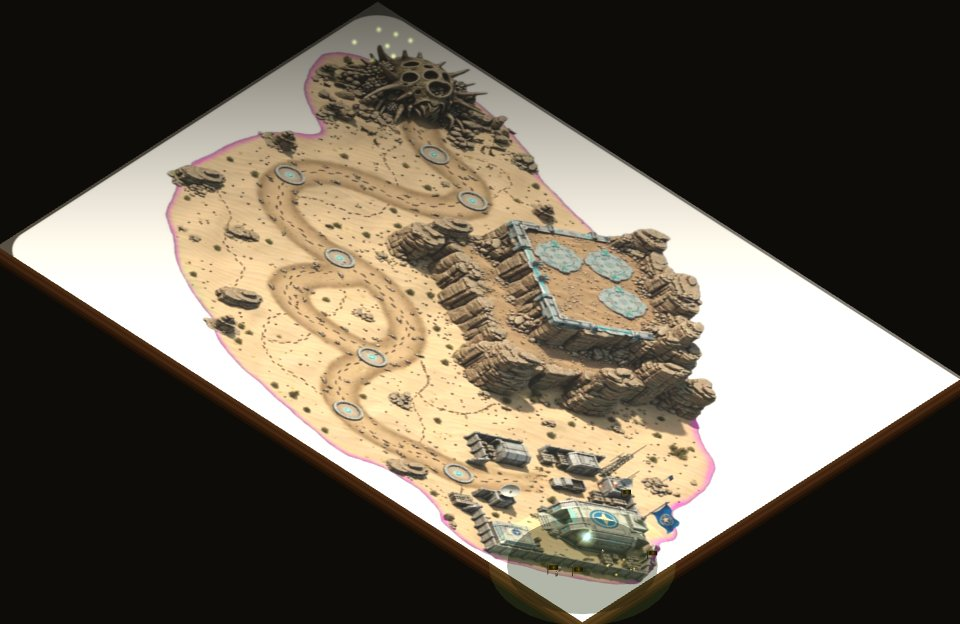
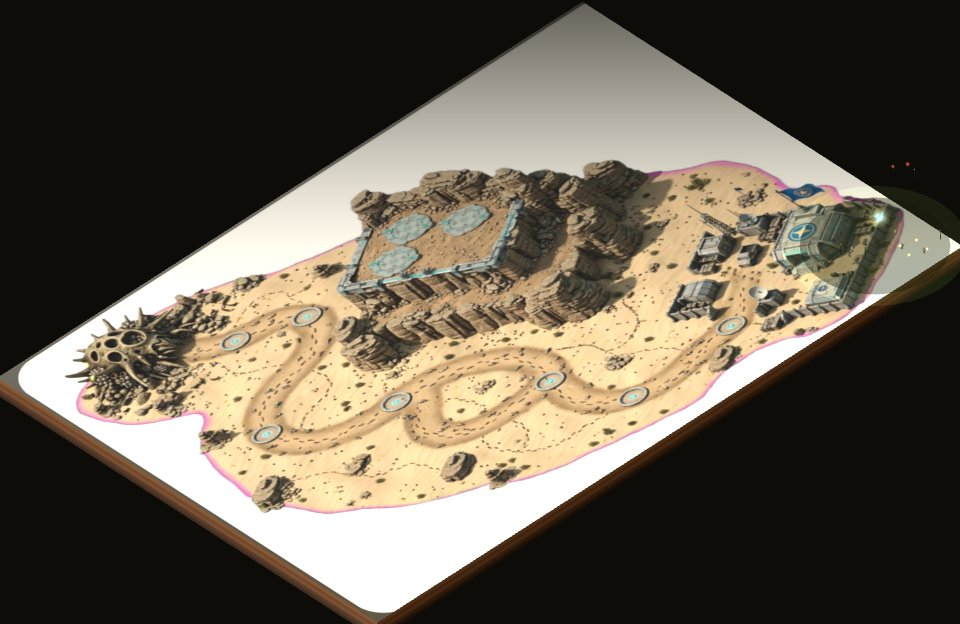
Rotate iso camera to fix crooked reference-art texture, not the texture
mapa_desejado.jpg is itself a flat isometric render; texturing the
ground with it and viewing through the game's own isometric camera
compounded both perspectives, reading as crooked. Rotating the
texture in-plane "fixed" the framing but desynced the drawn road
from the actual WAY_TILES path and tower-pad markers (verified by
comparing pad positions against the art at rotation 0 vs 90).

Rotate the camera's azimuth by 90° instead: the art now reads
upright in the diamond view, and since the texture and path
coordinates are untouched, the pads stay exactly on the drawn road.
Regenerate the landing page thumbnail to match.

diff --git a/iso.html b/iso.html
@@ -905,7 +905,9 @@
   scene.fog=new THREE.Fog(0x0d0c08, CW*0.85, CW*1.7);
 
   var ISO_VIEWSIZE=CH*0.58, ISO_ASPECT=CW/CH;
-  var ISO_ELEV=Math.PI/4.5, ISO_AZIMUTH=Math.PI/4, ISO_DIST=900;
+  // azimuth rotated 90° from the "natural" iso angle so the pasted reference art (drawn at its own fixed
+  // angle) reads upright in the diamond view instead of crooked, without touching the texture or the path
+  var ISO_ELEV=Math.PI/4.5, ISO_AZIMUTH=Math.PI/4+Math.PI/2, ISO_DIST=900;
   var camera=new THREE.OrthographicCamera(-ISO_VIEWSIZE*ISO_ASPECT,ISO_VIEWSIZE*ISO_ASPECT,ISO_VIEWSIZE,-ISO_VIEWSIZE,0.1,3000);
   var isoCamY=Math.sin(ISO_ELEV)*ISO_DIST, isoHoriz=Math.cos(ISO_ELEV)*ISO_DIST;
   camera.up.set(0,1,0);
